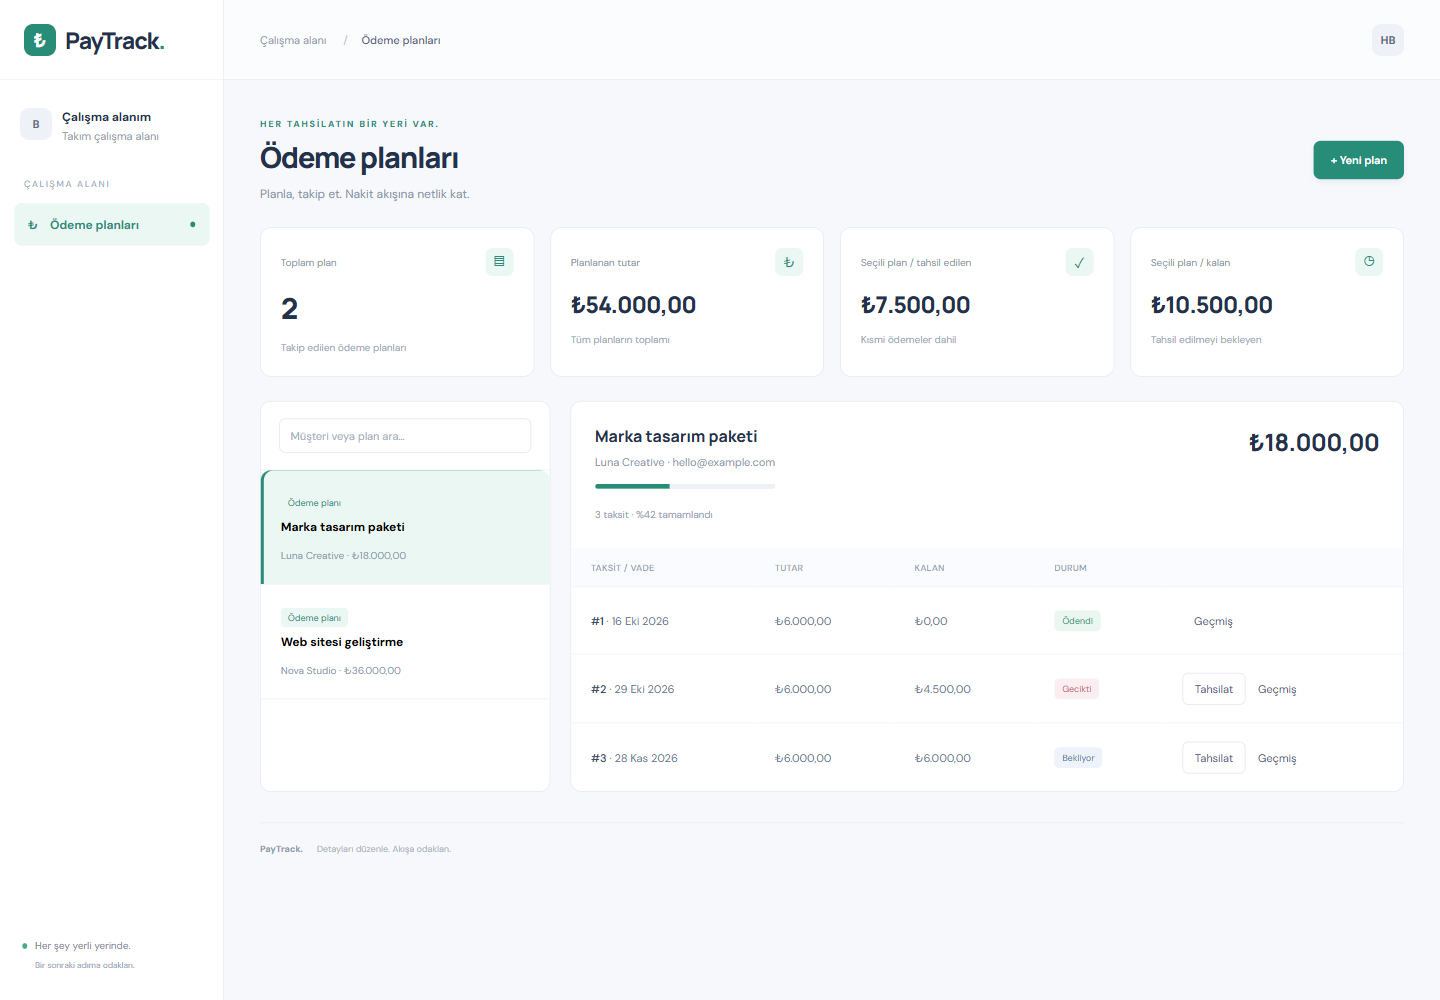
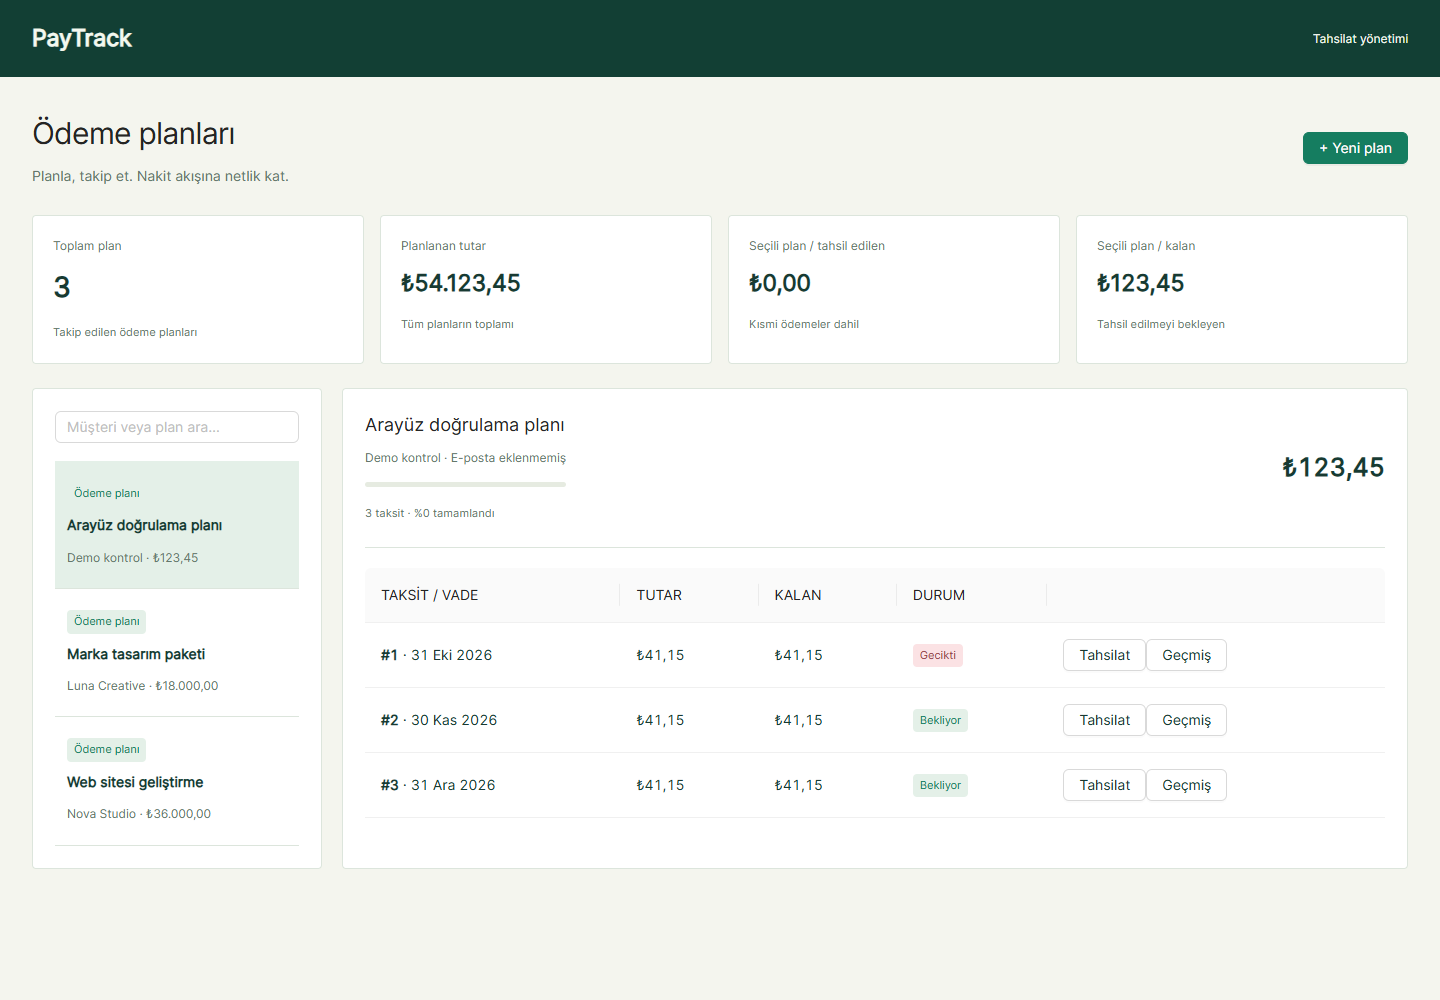
docs(ui): refresh screenshots and document theme boundaries

diff --git a/docs/ui.md b/docs/ui.md
@@ -1,0 +1,22 @@
+# Arayüz sistemi
+
+NG-ZORRO kullanılır. Koyu yeşil üst gezinme, açık finans yüzeyleri ve tahsilat tabloları.
+
+## Tema sınırı
+
+src/theme.less içindeki resmi Less değişkenleri; yalnız kullanılan bileşen stilleri içe aktarılır.
+
+- Bileşen renkleri, tipografisi ve durumları kütüphanenin açık tema API’sinden yönetilir.
+- `src/styles.css` uygulamanın yerleşimini ve iş alanına özel kart/takvim geometrisini tanımlar.
+- Kütüphanenin ürettiği iç sınıflara bağlanan seçiciler, `::ng-deep` ve `!important` kullanılmaz.
+- Takvim randevuları ve sürüklenen Kanban kartları semantik iş alanı kontrolleridir; sabit yüksekliği olan standart aksiyon butonuna zorlanmaz.
+- Formların isimleri, doğrulama alanları ve HTTP sözleşmeleri korunur. Backend katmanları değişmez.
+
+## Kontrol
+
+- Masaüstü: 1440 × 1000; telefon: 390 × 844.
+- Gerçek API ve PostgreSQL ile arayüzden kayıt oluşturma doğrulandı.
+- Form açma/kapatma ve dar ekran taşmaları kontrol edildi.
+- Kısmi tahsilat arayüzden kaydedildi; test kayıtları işlem sonunda temizlendi.
+
+[Bileşen kütüphanesi belgeleri](https://ng.ant.design)

diff --git a/README.md b/README.md
@@ -8,6 +8,10 @@ Tahsilatın net bir resmi. Ödeme planlarını ve taksitleri tek yerde takip et.
 
 [Telefon görünümü](docs/mobile.png)
 
+## Arayüz
+
+**NG-ZORRO** · Koyu yeşil üst gezinme, açık finans yüzeyleri ve tahsilat tabloları. Tema sınırları ve doğrulama notları: [Arayüz sistemi](docs/ui.md).
+
 ## Özellikler
 
 - Müşteri bilgileriyle aylık ödeme planları
